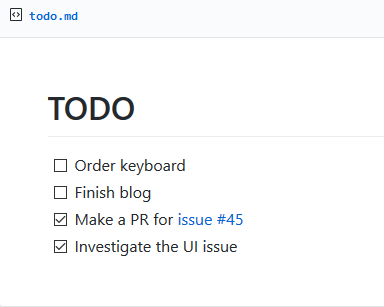
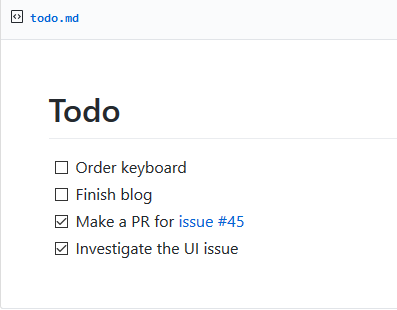
Add time zone support

diff --git a/todolist/todolist.py b/todolist/todolist.py
@@ -1,7 +1,8 @@
-from datetime import date
+from datetime import datetime, timezone
 import json
 import os
 
+import pytz
 import requests
 
 
@@ -80,9 +81,19 @@ def update_todo(not_done):
     return '\n'.join(not_done)
 
 
+def get_time_wrt_time_zone():
+    utc_date = datetime.today()
+    custom_timezone = pytz.timezone('UTC')
+    try:
+        custom_timezone = pytz.timezone(os.environ['TIME_ZONE'])
+    except Exception:
+        pass
+    today = utc_date.astimezone(custom_timezone).strftime("%B %d, %Y")
+    return today
+
+
 def add_to_done(done, previous_done):
-    today = date.today()
-    formatted_date = str(today.strftime("%B %d, %Y"))
+    formatted_date = get_time_wrt_time_zone()
     previous_done = previous_done.split('\n')
     if not done:
         return '\n'.join(previous_done)
@@ -101,7 +112,7 @@ def add_to_done(done, previous_done):
     done = date_string + '\n'.join(done)
     if is_found == False:
         done += '\n'
-    final_done = '# Done list\n\n' + done + '\n'.join(previous_done)
+    final_done = '# Done \n\n' + done + '\n'.join(previous_done)
     return final_done
 
 

diff --git a/README.md b/README.md
@@ -14,31 +14,81 @@ create a list and check the off during the day.
 After midnight your done tasks will be transferred to the done list. In this
 way you will have a history of your list!
 
-| Todo | Done |
-|----------------------------|--------------------------|
+|               Todo                   |          Done            |
+|--------------------------------------|--------------------------|
 | ![after todo](images/after-todo.png) | ![done](images/done.png) |
 
 ## Usage
 
-- First create two gists, namely `todo` and `done`. Add file `todo.md` and
-  `done.md` to them respectively. The file content should be a single header
-  `# TODO` and `# Done` respectively.
+- First create two gists from <https://gist.github.com>, namely `todo` and `done`.
+- Add file `todo.md` and `done.md` to them respectively. The file content should
+  be a single header `# Todo` and `# Done` respectively.
 
 - Generate a new personal access token with gist scope from
   here: <https://github.com/settings/tokens/new>.
 
 - Fork this repository.
 
-- Add the gist IDs as `TODO_ID`, `DONE_ID` and `GH_TOKEN` to your repository secrets:
-  `https://github.com/<your_username>/<repository_name>/settings/secrets`
+- Add the gist IDs as `TODO_ID`, `DONE_ID` and the personal access token as
+ `GH_TOKEN` to your repository secrets: `https://github.com/<your_username>/<repository_name>/settings/secrets`
   It will look something like this:
 
   ![secrets.jpg](./images/secrets.png)
+
+  > Gist ID is the part of the URL after your username. For example the gist ID
+  of this gist `https://gist.github.com/ayan-b/1b44e52eifj09bc75c914f6fedf95304`
+  is `1b44e52eifj09bc75c914f6fedf95304`.
 
 - Now you have your todo list using GitHub gist!
 - **Optional**: Change the time of [cron job](.github/workflows/update-list.yml)
   in the workflow file according to your time zone so that the todo and done
   list update exactly at midnight (and not at UTC midnight)!
+
+  Here's one for IST time zone (UTC +5:30). Note the use of `TIME_ZONE` environment
+  variable and the change in cron job.
+
+```yaml
+name: Update Todo List IST
+
+on:
+  push:
+    branches: [ master ]
+  pull_request:
+    branches: [ master ]
+  schedule:
+    - cron: "5 30 * * *"  # 0 + time zone difference time
+
+jobs:
+  build:
+
+    runs-on: ubuntu-latest
+
+    steps:
+    - uses: actions/checkout@v2
+    - name: Set up Python 3.8
+      uses: actions/setup-python@v1
+      with:
+        python-version: 3.8
+    - name: Install dependencies
+      run: |
+        python -m pip install --upgrade pip
+        pip install -r requirements.txt
+    - name: Lint with flake8
+      run: |
+        pip install flake8
+        # stop the build if there are Python syntax errors or undefined names
+        flake8 . --count --select=E9,F63,F7,F82 --show-source --statistics
+        # exit-zero treats all errors as warnings.
+        flake8 . --count --exit-zero --max-complexity=10 --max-line-length=79 --statistics
+    - name: Update todo list
+      run: |
+        python3 construct_todo.py
+      env:
+        GH_TOKEN: ${{ secrets.GH_TOKEN }}
+        TODO_GIST: ${{ secrets.TODO_GIST }}
+        DONE_GIST: ${{ secrets.DONE_GIST }}
+        TIME_ZONE: "Asia/Kolkata" # IST
+```
 
 ## License
 
